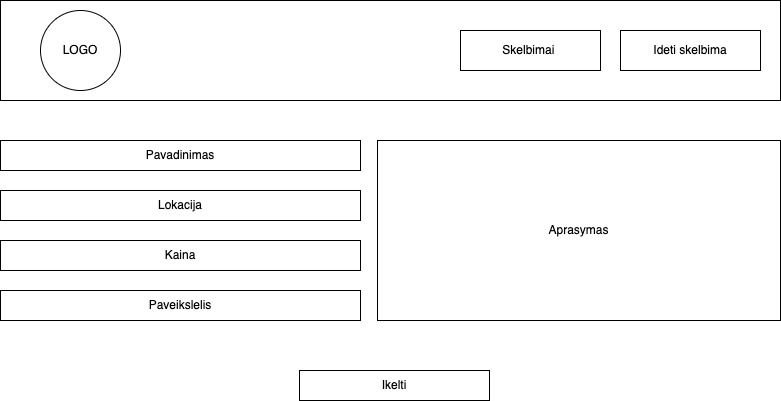
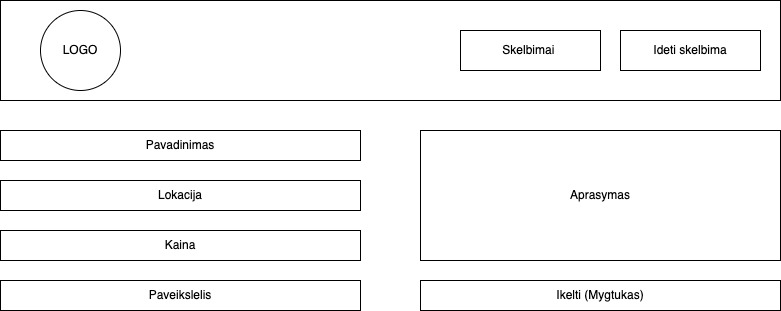
some styling

diff --git a/js/add-page.js b/js/add-page.js
@@ -1,70 +1,70 @@
-const BASE_URL = 'https://64ec3372f9b2b70f2bf9f191.mockapi.io/ads_posts';
-const responseWrap = document.querySelector('.response');
+  const BASE_URL = 'https://64ec3372f9b2b70f2bf9f191.mockapi.io/ads_posts';
+  const responseWrap = document.querySelector('.response');
 
-const getAdObject = () => {
-  const inputName = document.getElementById('input-name').value;
-  const inputPrice = document.getElementById('input-price').value
-  const inputLocation = document.getElementById('input-location').value
-  const inputImage = document.getElementById('input-image').value
-  const inputDescription = document.getElementById('input-description').value
-  const advertisement = {
-    name:inputName,
-    price:inputPrice,
-    location:inputLocation,
-    photo:inputImage,
-    description:inputDescription
-  }
-  return advertisement;
-}
-
-const insertAdPost = async(advertisement) => {
-  try {
-    let response = await fetch(BASE_URL,{
-      method:"POST",
-      headers: {
-        Accept: "application/json",
-        "Content-Type": "application/json", 
-      },
-      body:JSON.stringify(advertisement)
-    })
-    const advertisements = await response.json();
-    return advertisements;
-    
-  } catch (error){
-    return false
-  }
-}
-
-const checkAdPostValid = (advertisements) => {
-  if(advertisements){
-    const { name, price, location, description, photo } = advertisements; //destruction
-
-    if (name === ''|| price === '' || location === '' || description === '' || photo === ''){  // validation
-      responseWrap.innerHTML = 'Privaloma uzpildyti visus laukus';
-      return false; 
-    } else if (isNaN(parseFloat(price))){   // check if is not a number
-      responseWrap.innerHTML = 'Turi buti skaiciai';
-      return false; 
-    } else {
-      responseWrap.innerHTML = 'Skelbimas sekmingai idetas'
-      setTimeout(()=>{
-        window.location.replace("./index.html");
-      },2000)
-      return true; 
+  const getAdObject = () => {
+    const inputName = document.getElementById('input-name').value;
+    const inputPrice = document.getElementById('input-price').value
+    const inputLocation = document.getElementById('input-location').value
+    const inputImage = document.getElementById('input-image').value
+    const inputDescription = document.getElementById('input-description').value
+    const advertisement = {
+      name:inputName,
+      price:inputPrice,
+      location:inputLocation,
+      photo:inputImage,
+      description:inputDescription
     }
-    
-  } else {
-    return false
+    return advertisement;
   }
-}
 
-document.querySelector('form').addEventListener('submit', async(e)=>{
-  e.preventDefault();
-  const advertisement = getAdObject();   // asinging to object
-  if (checkAdPostValid(advertisement)) {  // checking object validation if its true inserting ad calling insertAdPos
-    const insertedAdvertisement = await insertAdPost(advertisement);  // 
-    if (!insertedAdvertisement) {
+  const insertAdPost = async(advertisement) => {
+    try {
+      let response = await fetch(BASE_URL,{
+        method:"POST",
+        headers: {
+          Accept: "application/json",
+          "Content-Type": "application/json", 
+        },
+        body:JSON.stringify(advertisement)
+      })
+      const advertisements = await response.json();
+      return advertisements;
+      
+    } catch (error){
       return false
-    } 
+    }
   }
-})
+
+  const checkAdPostValid = (advertisements) => {
+    if(advertisements){
+      const { name, price, location, description, photo } = advertisements; //destruction
+
+      if (name === ''|| price === '' || location === '' || description === '' || photo === ''){  // validation
+        responseWrap.innerHTML = 'Privaloma uzpildyti visus laukus';
+        return false; 
+      } else if (isNaN(parseFloat(price))){   // check if is not a number
+        responseWrap.innerHTML = 'Turi buti skaiciai';
+        return false; 
+      } else {
+        responseWrap.innerHTML = 'Skelbimas sekmingai idetas'
+        setTimeout(()=>{
+          window.location.replace("./index.html");
+        },2000)
+        return true; 
+      }
+      
+    } else {
+      return false
+    }
+  }
+
+  document.querySelector('form').addEventListener('submit', async(e)=>{
+    e.preventDefault();
+    const advertisement = getAdObject();   // asinging to object
+    if (checkAdPostValid(advertisement)) {  // checking object validation if its true inserting ad calling insertAdPos
+      const insertedAdvertisement = await insertAdPost(advertisement);  // 
+      if (!insertedAdvertisement) {
+        return false
+      } 
+    }
+  })

diff --git a/css/styles.css b/css/styles.css
@@ -38,18 +38,6 @@ header {
   padding: 1rem;
   
 }
-.logo {
-  padding-top: 20px;
-  padding-bottom: 20px;
-}
-.header-inner {
-  display: block;
-  text-align: center;
-  justify-content: space-between;
-  align-items: center;
-  padding-left: 1rem;
-  padding-right: 1rem;
-}
 header ul li:nth-child(2) {
   padding-bottom: 0;
 }
@@ -65,6 +53,20 @@ header ul li a {
 header ul li a:hover {
   text-decoration: underline;
 }
+
+.logo {
+  padding-top: 20px;
+  padding-bottom: 20px;
+}
+.header-inner {
+  display: block;
+  text-align: center;
+  justify-content: space-between;
+  align-items: center;
+  padding-left: 1rem;
+  padding-right: 1rem;
+}
+
 .ads-home-page {
   display: grid;
   grid-template-columns: repeat(3, minmax(auto, 1fr));
@@ -94,23 +96,25 @@ header ul li a:hover {
 .ads-home-page  .ads-info-box  {
   padding: 0.5rem;
 }
-
-.ads-page-inner {
+.details-page-inner {
   display: block;
   justify-content: center;
   align-items: center;
   padding-top: 3rem;
 }
-.ads-page-inner .info-wrapper {
+.details-page-inner .ad-title, .details-page-inner .ad-location,.details-page-inner .ad-price {
+  padding-bottom: 1rem;
+}
+.details-page-inner .info-wrapper {
   padding-left: 3rem;
   
 }
-.ads-page-inner .image-wrapper img{
+.details-page-inner .image-wrapper img{
   max-width: 100%;
   height: 400px;
   width: 100%;
 }
-.ads-page-inner .btn-delete{
+.details-page-inner .btn-delete{
   margin-top: 5rem;
   display: inline-block;
   padding: 1rem;
@@ -118,22 +122,38 @@ header ul li a:hover {
   cursor: pointer;
   border: none;
 }
-.ads-page-inner .btn-delete:hover {
+.details-page-inner .btn-delete:hover {
   text-decoration: underline;
   color: #fff;
   background-color: brown;
 }
+
 .form-add-item form {
+  display: block;
+  padding: 1rem;
+}
+
+.form-add-item form  .left-inputs {
+  width: 100%;
   display: flex;
   flex-direction: column;
-  padding: 1rem;
-  
+}
+.form-add-item form .right-inputs {
+  width: 100%;
+  display: flex;
+  flex-direction: column;
 }
 .form-add-item form input,.form-add-item form button {
-  padding: 0.6rem 0.4rem;
+  padding: 0.8rem 0.4rem;
 }
 .form-add-item form button {
   cursor: pointer;
+  border: 2px solid #efefef;
+  border-radius: 0.5rem;
+}
+.form-add-item form button:hover {
+  border: 2px solid #d0c28a;
+  background-color: #d0c28a;
 }
 .form-add-item form input,.form-add-item form textarea {
   margin-bottom: 1rem;
@@ -154,14 +174,30 @@ header ul li a:hover {
     display: inline-block;
     padding: 0 0.6rem;
   }
-  .ads-page-inner {
+  .form-add-item form {
+    display: flex;
+
+  }
+  .form-add-item form  .left-inputs {
+    width: 50%;
+    padding-right: 1rem;
+    display: flex;
+    flex-direction: column;
+  }
+  .form-add-item form .right-inputs {
+    width: 50%;
+    padding-left: 1rem;
+    display: flex;
+    flex-direction: column;
+  }
+  .details-page-inner {
     display: flex;
     
   }
-  .ads-page-inner .info-wrapper { 
+  .details-page-inner .info-wrapper { 
     width: 50%;
   }
-  .ads-page-inner .info-wrapper {
+  .details-page-inner .info-wrapper {
     width: 50%;
     
   }

diff --git a/add-page.html b/add-page.html
@@ -4,7 +4,7 @@
   <meta charset="UTF-8">
   <meta http-equiv="X-UA-Compatible" content="IE=edge">
   <meta name="viewport" content="width=device-width, initial-scale=1.0">
-  <title>Prideti skelbima</title>
+  <title>Ideti skelbima</title>
   <link rel="preconnect" href="https://fonts.googleapis.com">
   <link rel="preconnect" href="https://fonts.gstatic.com" crossorigin>
   <link href="https://fonts.googleapis.com/css2?family=Poppins:ital,wght@0,300;0,400;0,500;1,300;1,400&display=swap" rel="stylesheet">
@@ -29,12 +29,17 @@
     </header>
     <div class="form-add-item" id="form-add-item">
       <form action="">
-        <input type="text" id="input-name" placeholder="Skelbimo pavadinimas">
-        <input type="text" id="input-price" placeholder="Skelbimo kaina">
-        <input type="text" id="input-location" placeholder="Skelbimo lokacija">
-        <input type="text" id="input-image" placeholder="Skelbimo nuotrauka">
-        <textarea name="description" id="input-description" cols="30" rows="10"></textarea>
-        <button type="submit">Ideti skelbima</button>
+        <div class="left-inputs">
+          <input type="text" id="input-name" placeholder="Skelbimo pavadinimas">
+          <input type="text" id="input-price" placeholder="Skelbimo kaina">
+          <input type="text" id="input-location" placeholder="Skelbimo lokacija">
+          <input type="text" id="input-image" placeholder="Skelbimo nuotrauka">
+        </div>
+        <div class="right-inputs">
+          <textarea name="description" id="input-description" cols="30" rows="10"></textarea>
+          <button type="submit">Ideti skelbima</button>
+        </div>
+        
       </form>
       <div class="response"></div>
     </div>

diff --git a/js/details-page.js b/js/details-page.js
@@ -10,7 +10,7 @@ const constructHtmlPage = () => {
   adPageWrap.setAttribute('class','details-page')
   
   const adPageWrapInner = document.createElement('div');
-  adPageWrapInner.setAttribute('class','ads-page-inner')
+  adPageWrapInner.setAttribute('class','details-page-inner')
   adPageWrap.append(adPageWrapInner)
   
   const adPageImageWrap = document.createElement('div');
@@ -69,7 +69,7 @@ const addToScreen = (advertisement) => {
   
   const adPageDescription = document.querySelector('p')
   adPageDescription.innerHTML = `<strong>Aprasymas: </strong> ${advertisement.description}`
-  
+  console.log(advertisement)
 }
 
 const getAdvertisement = async() => {
